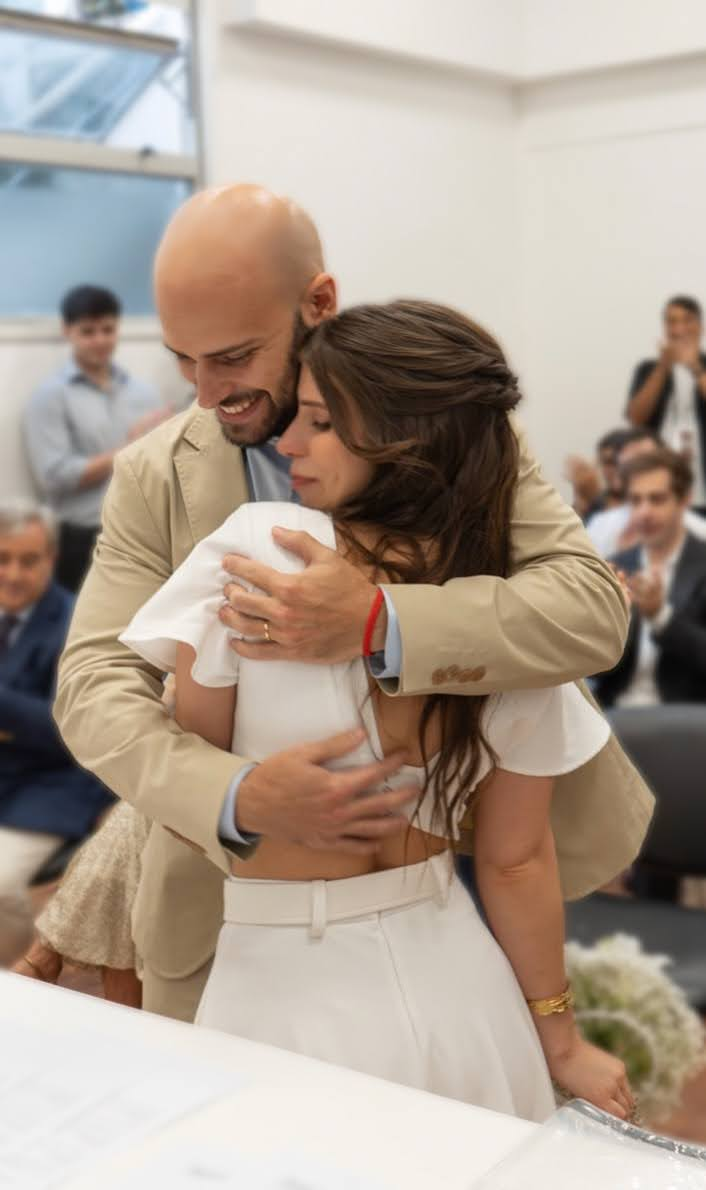
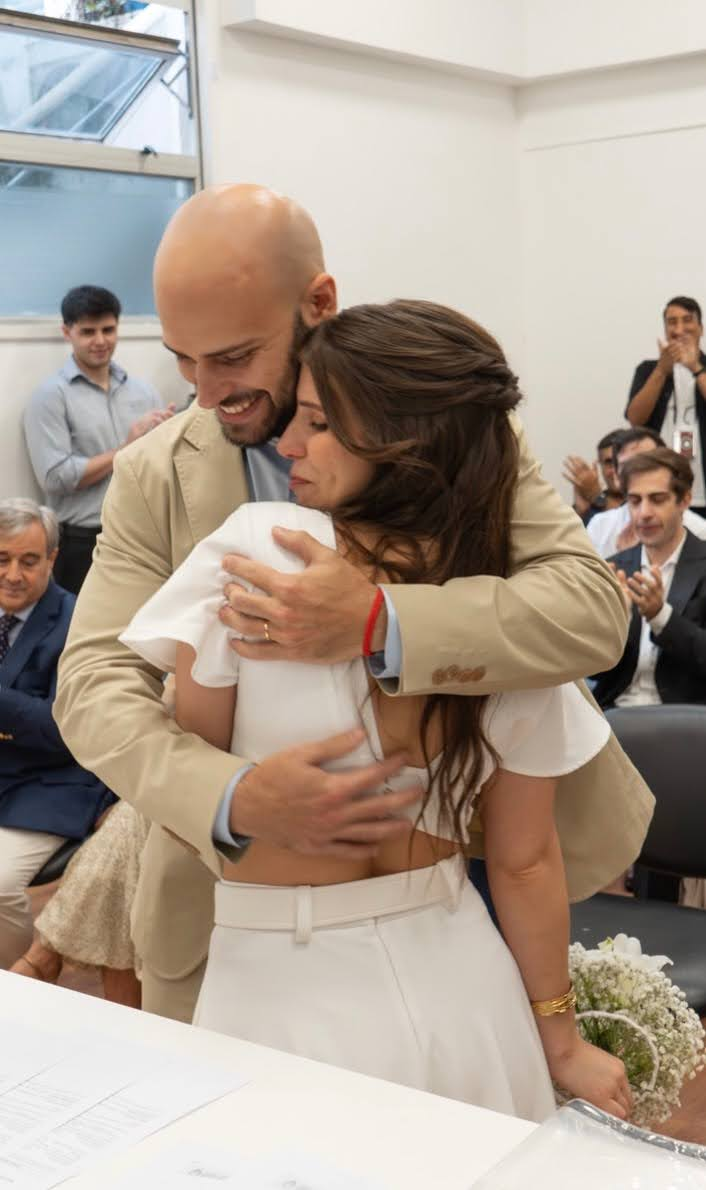
Agregar splash de bienvenida personalizado, playlist de Spotify, y ajustes de contenido/estilo
Renombrado a nj.html. Incluye pantalla de entrada con nombre de invitado
via URL, seccion de playlist colaborativa, foto principal sin recorte
circular, y varios ajustes de copy en Dudas/Regalos/RSVP en los tres idiomas.

diff --git a/nj.html b/nj.html
@@ -6,11 +6,11 @@
 <title>Natalia &amp; Joaquín — 27.11.2026</title>
 <link rel="preconnect" href="https://fonts.googleapis.com">
 <link rel="preconnect" href="https://fonts.gstatic.com" crossorigin>
-<link href="https://fonts.googleapis.com/css2?family=Fraunces:ital,opsz,wght@0,9..144,300;0,9..144,400;0,9..144,500;1,9..144,300;1,9..144,400&family=Hanken+Grotesk:wght@300;400;500&family=Parisienne&family=Playfair+Display:wght@400;500&display=swap" rel="stylesheet">
+<link href="https://fonts.googleapis.com/css2?family=Fraunces:ital,opsz,wght@0,9..144,300;0,9..144,400;0,9..144,500;1,9..144,300;1,9..144,400&family=Hanken+Grotesk:wght@300;400;500&family=Playfair+Display:ital,wght@0,400;0,500;1,400&display=swap" rel="stylesheet">
 <style>
 :root{
-  --marfil:#F7F3EA;
-  --marfil-2:#F1EBDD;
+  --marfil:#FFFFFF;
+  --marfil-2:#F3F3F0;
   --tinta:#26312A;          /* verde bosque muy oscuro, casi negro */
   --tinta-60:rgba(38,49,42,.6);
   --tinta-40:rgba(38,49,42,.42);
@@ -27,6 +27,38 @@ body{
 }
 ::selection{background:var(--tinta);color:var(--marfil)}
 img{display:block;width:100%;height:100%;object-fit:cover}
+body.locked{overflow:hidden;height:100vh}
+
+/* ---------- SPLASH ---------- */
+.splash{
+  position:fixed;inset:0;z-index:200;
+  background:var(--marfil);
+  display:flex;align-items:center;justify-content:center;
+  text-align:center;padding:2rem;
+  transition:opacity .6s ease,visibility .6s ease;
+}
+.splash.hide{opacity:0;visibility:hidden;pointer-events:none}
+.splash-inner{max-width:420px}
+.splash-eyebrow{
+  font-size:.68rem;letter-spacing:.34em;text-transform:uppercase;
+  color:var(--tinta-60);margin-bottom:1.8rem;
+}
+.splash-nombre{
+  font-family:'Playfair Display',serif;font-weight:400;
+  font-size:clamp(2rem,9vw,3.2rem);line-height:1.15;margin-bottom:1.1rem;
+  word-break:break-word;
+}
+.splash-msg{font-size:1rem;color:var(--tinta-60);margin-bottom:2.4rem}
+.splash-btn{
+  display:inline-block;background:var(--tinta);color:var(--marfil);
+  border:1px solid var(--tinta);cursor:pointer;
+  font-family:'Hanken Grotesk',sans-serif;font-weight:400;
+  font-size:.72rem;letter-spacing:.24em;text-transform:uppercase;
+  padding:1.05rem 2.6rem;border-radius:0;
+  transition:background .3s,color .3s;
+}
+.splash-btn:hover{background:transparent;color:var(--tinta)}
+.splash-btn:focus-visible{outline:1px solid var(--tinta);outline-offset:4px}
 
 /* ---------- NAV ---------- */
 nav{
@@ -114,11 +146,13 @@ header{
   font-family:'Playfair Display',serif;font-weight:400;
   font-size:clamp(2.9rem,11.5vw,6rem);
   line-height:1.06;margin-top:1.4rem;letter-spacing:.01em;
+  width:100%;text-align:center;
   opacity:0;animation:fade 1.4s ease .5s forwards;
 }
 .hero-names em{
-  font-family:'Parisienne',cursive;font-style:normal;font-size:.85em;display:block;
-  color:var(--borgona);margin:.1em 0;
+  font-family:'Playfair Display',serif;font-style:italic;font-size:.6em;display:block;
+  width:100%;text-align:center;line-height:1;
+  color:var(--tinta);margin:.45em 0 .05em;
 }
 .hero-lugar{
   margin-top:1.7rem;font-size:clamp(.92rem,4vw,1.05rem);font-weight:500;letter-spacing:.1em;text-transform:uppercase;
@@ -134,7 +168,7 @@ header{
 .hero-foto img{object-position:50% 40%}
 .hero-foto{
   margin-top:2.8rem;width:min(78vw,340px);aspect-ratio:3/4;
-  border-radius:999px 999px 0 0;overflow:hidden;
+  border-radius:0;overflow:hidden;
   opacity:0;animation:fade 1.6s ease 1.2s forwards;
 }
 @keyframes fade{from{opacity:0;transform:translateY(14px)}to{opacity:1;transform:translateY(0)}}
@@ -229,6 +263,12 @@ h2 em{font-style:italic;color:var(--borgona)}
   text-align:center;margin-top:1.4rem;
   font-family:'Fraunces',serif;font-style:italic;color:var(--borgona);font-size:1rem;
 }
+
+/* ---------- PLAYLIST ---------- */
+.playlist-embed{
+  max-width:460px;margin:2.4rem auto 0;border-radius:8px;overflow:hidden;
+}
+.playlist-embed iframe{display:block;border:none}
 
 /* ---------- FOTO ANCHA ---------- */
 .foto-ancha{
@@ -354,13 +394,23 @@ footer{
 }
 </style>
 </head>
-<body>
+<body class="locked">
+
+<div class="splash" id="splash">
+  <div class="splash-inner">
+    <p class="splash-eyebrow">Natalia &amp; Joaquín</p>
+    <h1 class="splash-nombre" id="splashNombre">¡Hola!</h1>
+    <p class="splash-msg" data-i18n="splash.msg">Nos casamos y queremos que estés ahí.</p>
+    <button class="splash-btn" id="splashBtn" type="button" data-i18n="splash.btn">Ver invitación</button>
+  </div>
+</div>
 
 <nav id="nav">
   <a class="nav-mono" href="#top">N—J</a>
   <div class="nav-links">
     <a href="#eldia" data-i18n="nav.eldia">El día</a>
     <a href="#dresscode" data-i18n="nav.vestimenta">Vestimenta</a>
+    <a href="#playlist" data-i18n="nav.playlist">Música</a>
     <a href="#regalos" data-i18n="nav.regalos">Regalos</a>
     <a href="#rsvp" data-i18n="nav.confirmar">Confirmar</a>
     <a href="#faq" data-i18n="nav.dudas">Dudas</a>
@@ -446,6 +496,23 @@ footer{
 
   <hr class="hr">
 
+  <!-- PLAYLIST -->
+  <section id="playlist">
+    <div class="reveal">
+      <p class="eyebrow" data-i18n="playlist.eyebrow">Música</p>
+      <h2 data-i18n="playlist.h2">Sumá tu <em>canción</em></h2>
+      <p class="lede" data-i18n="playlist.lede">Armamos esta playlist para bailar toda la noche: agregá los temas que no pueden faltar. ¿No tenés Spotify? Escribilo en el formulario de confirmación, un poco más abajo.</p>
+    </div>
+    <div class="playlist-embed reveal">
+      <iframe src="https://open.spotify.com/embed/playlist/21qQINeFrJPCweo31xKQwX?utm_source=generator" width="100%" height="380" frameborder="0" allowfullscreen="" allow="autoplay; clipboard-write; encrypted-media; fullscreen; picture-in-picture" loading="lazy"></iframe>
+    </div>
+    <div class="dia-acciones reveal">
+      <a class="link" href="https://open.spotify.com/playlist/21qQINeFrJPCweo31xKQwX" target="_blank" rel="noopener" data-i18n="playlist.abrir">Abrir en Spotify</a>
+    </div>
+  </section>
+
+  <hr class="hr">
+
   <!-- REGALOS -->
   <section id="regalos">
     <div class="reveal">
@@ -497,7 +564,6 @@ footer{
     <div class="reveal">
       <p class="eyebrow" data-i18n="rsvp.eyebrow">Confirmación</p>
       <h2 data-i18n="rsvp.h2">Confirmar <em>asistencia</em></h2>
-      <p class="lede" data-i18n="rsvp.lede">Tarda menos de un minuto.</p>
     </div>
     <div class="form reveal">
       <div class="campo">
@@ -542,11 +608,11 @@ footer{
     <div class="faq-list reveal">
       <div class="faq-item">
         <button class="faq-q" aria-expanded="false"><span data-i18n="faq.q1">¿A qué distancia queda Espacio PK?</span><span class="signo">+</span></button>
-        <div class="faq-a"><p data-i18n="faq.a1">Espacio PK queda a unos 80 km de la ciudad: calculen una hora y cuarto de viaje. Como es viernes, suele haber más tráfico a esa hora, así que mejor salir con tiempo de sobra. La ceremonia empieza 19.00 en punto; lo ideal es llegar 18.30.</p></div>
+        <div class="faq-a"><p data-i18n="faq.a1">Espacio PK queda a unos 80 km de CABA (aproximadamente una hora y media de viaje). Como la ceremonia comienza puntual a las 19:00 hs, lo ideal es llegar a las 18:30 hs. Al ser viernes por la tarde suele haber bastante tránsito, por lo que les recomendamos salir con buen margen de tiempo para viajar tranquilos. ¡Los esperamos!</p></div>
       </div>
       <div class="faq-item">
         <button class="faq-q" aria-expanded="false"><span data-i18n="faq.q2">¿Hay estacionamiento?</span><span class="signo">+</span></button>
-        <div class="faq-a"><p data-i18n="faq.a2">Sí, el predio tiene estacionamiento propio. Si pueden compartir auto, mejor para todos.</p></div>
+        <div class="faq-a"><p data-i18n="faq.a2">Sí, el predio tiene estacionamiento propio.</p></div>
       </div>
       <div class="faq-item">
         <button class="faq-q" aria-expanded="false"><span data-i18n="faq.q3">¿Dónde me puedo alojar cerca?</span><span class="signo">+</span></button>
@@ -570,7 +636,7 @@ footer{
       </div>
       <div class="faq-item">
         <button class="faq-q" aria-expanded="false"><span data-i18n="faq.q5">¿Es al aire libre? ¿Y si llueve?</span><span class="signo">+</span></button>
-        <div class="faq-a"><p data-i18n="faq.a5">La ceremonia es al aire libre y la fiesta en el Salón Granero, que es cubierto. Si llueve, todo pasa adentro sin cambios de horario. A fines de noviembre suele hacer calor de día y refrescar apenas de noche.</p></div>
+        <div class="faq-a"><p data-i18n="faq.a5">La ceremonia es al aire libre y la fiesta en el Salón Granero, que es cubierto. Si llueve, todo pasa adentro sin cambios de horario.</p></div>
       </div>
       <div class="faq-item">
         <button class="faq-q" aria-expanded="false"><span data-i18n="faq.q6">¿Hasta cuándo puedo confirmar?</span><span class="signo">+</span></button>
@@ -615,13 +681,16 @@ var FOTOS = {
 /* ---- traducciones ---- */
 var TRANSLATIONS = {
   es: {
-    "nav.eldia":"El día","nav.vestimenta":"Vestimenta","nav.regalos":"Regalos","nav.confirmar":"Confirmar","nav.dudas":"Dudas",
+    "nav.eldia":"El día","nav.vestimenta":"Vestimenta","nav.playlist":"Música","nav.regalos":"Regalos","nav.confirmar":"Confirmar","nav.dudas":"Dudas",
     "hero.fecha":"27 de noviembre de 2026","hero.hora":"Ceremonia 19:00 h",
     "eldia.eyebrow":"El día","momento.ceremonia":"Ceremonia","momento.recepcion":"Recepción y fiesta","momento.cierre":"Cierre",
     "accion.comollegar":"Cómo llegar","accion.agendar":"Agendar fecha",
     "dress.eyebrow":"Vestimenta","dress.h2":"<em>Elegante</em>",
     "dress.lede":"Elegante pero cómodo, para que puedas disfrutar de este gran día.",
     "dress.evitar":"Solo les pedimos evitar el blanco.",
+    "playlist.eyebrow":"Música","playlist.h2":"Sumá tu <em>canción</em>",
+    "playlist.lede":"Armamos esta playlist para bailar toda la noche: agregá los temas que no pueden faltar. ¿No tenés Spotify? Escribilo en el formulario de confirmación, un poco más abajo.",
+    "playlist.abrir":"Abrir en Spotify",
     "regalos.eyebrow":"Regalos","regalos.h2":"<em>Regalos</em>",
     "regalos.lede":"Su presencia es lo más importante para nosotros. Si quieren colaborar para nuestra luna de miel, estos son nuestros datos.",
     "regalos.pesos":"Pesos argentinos","regalos.usd":"USD dólares",
@@ -629,39 +698,44 @@ var TRANSLATIONS = {
     "label.dieta":"Alergias o alimentación especial","label.cancion":"Canción que no puede faltar","label.msj":"Algo más que quieras decirnos",
     "btn.copiar":"Copiar","btn.enviar":"Enviar confirmación",
     "radio.voy":"Voy a estar","radio.no":"No puedo ir",
-    "rsvp.eyebrow":"Confirmación","rsvp.h2":"Confirmar <em>asistencia</em>","rsvp.lede":"Tarda menos de un minuto.",
+    "rsvp.eyebrow":"Confirmación","rsvp.h2":"Confirmar <em>asistencia</em>",
     "rsvp.deadline":"Antes del 1 de octubre, por favor.",
     "faq.eyebrow":"Preguntas frecuentes","faq.h2":"<em>Dudas</em>",
     "faq.q1":"¿A qué distancia queda Espacio PK?",
-    "faq.a1":"Espacio PK queda a unos 80 km de la ciudad: calculen una hora y cuarto de viaje. Como es viernes, suele haber más tráfico a esa hora, así que mejor salir con tiempo de sobra. La ceremonia empieza 19.00 en punto; lo ideal es llegar 18.30.",
+    "faq.a1":"Espacio PK queda a unos 80 km de CABA (aproximadamente una hora y media de viaje). Como la ceremonia comienza puntual a las 19:00 hs, lo ideal es llegar a las 18:30 hs. Al ser viernes por la tarde suele haber bastante tránsito, por lo que les recomendamos salir con buen margen de tiempo para viajar tranquilos. ¡Los esperamos!",
     "faq.q2":"¿Hay estacionamiento?",
-    "faq.a2":"Sí, el predio tiene estacionamiento propio. Si pueden compartir auto, mejor para todos.",
+    "faq.a2":"Sí, el predio tiene estacionamiento propio.",
     "faq.q3":"¿Dónde me puedo alojar cerca?",
     "faq.a3":"Algunas opciones en Capilla del Señor y alrededores:<br>Cabañas Lily Bee — instagram.com/lilybee.ecohome · 11 5048 4264<br>La Martinetta — lamartinetaposada.com · 2323 49 2063<br>Cabañas Campo Alto — 11 6131 7475<br>Tía Úrsula — Malvón 542, Parada Robles · 11 2685 1342<br>Carmine Hotel Apart — Hipólito Irigoyen 594, Capilla del Señor · (02323) 491833<br>Quinta Loma Alta — Mateo S. Casco 1380 · 011 4195 7992<br>Camberland — hotelcamberland.com · 0230 4499 111<br>Hilton Pilar — hiltonpilar.ar · 0230 453 3800<br>Sofitel Cardales — sofitellareserva.com · 3489 43 5555",
     "faq.q4":"¿Hay combis o traslados?",
     "faq.a4":"Sí, estas empresas hacen el viaje hasta Espacio PK:<br>Lichabus — 11 530 78673<br>Boomerang — 11 15 6986 60059 · turismoboomerang.com.ar<br>Belardinelli Viajes — 11 4401 1600",
     "faq.q5":"¿Es al aire libre? ¿Y si llueve?",
-    "faq.a5":"La ceremonia es al aire libre y la fiesta en el Salón Granero, que es cubierto. Si llueve, todo pasa adentro sin cambios de horario. A fines de noviembre suele hacer calor de día y refrescar apenas de noche.",
+    "faq.a5":"La ceremonia es al aire libre y la fiesta en el Salón Granero, que es cubierto. Si llueve, todo pasa adentro sin cambios de horario.",
     "faq.q6":"¿Hasta cuándo puedo confirmar?",
     "faq.a6":"Hasta el 1 de octubre de 2026. Nos ayuda muchísimo para cerrar los números con el catering.",
     "msgs.completaNombre":"Completá tu nombre, por favor.",
     "msgs.completaForm":"Completá la confirmación en el formulario que se abrió.",
-    "msgs.enviando":"Enviando…","msgs.gracias":"Gracias, {name}. Ya tenemos tu confirmación.",
+    "msgs.enviando":"Enviando…","msgs.gracias":"¡Gracias por tu respuesta, {name}!",
     "msgs.error":"No se pudo enviar. Probá de nuevo en un rato.","msgs.copiado":"Copiado",
     "alts.hero":"Natalia y Joaquín caminando de la mano","alts.duo1":"Natalia y Joaquín abrazados en el civil",
     "alts.duo2":"Natalia y Joaquín besándose en el civil","alts.salon":"Espacio PK al atardecer","alts.ancha":"Interior del Salón Granero",
     "music.play":"Reproducir música","music.pause":"Pausar música",
     "calendar.text":"Casamiento Natalia & Joaquín",
-    "calendar.details":"Ceremonia 19.00 h y fiesta a continuación en Espacio PK (Salón Granero), Capilla del Señor."
+    "calendar.details":"Ceremonia 19.00 h y fiesta a continuación en Espacio PK (Salón Granero), Capilla del Señor.",
+    "splash.saludo":"¡Hola, {name}!","splash.saludoGenerico":"¡Hola!",
+    "splash.msg":"Nos casamos y queremos que estés ahí.","splash.btn":"Ver invitación"
   },
   en: {
-    "nav.eldia":"The Day","nav.vestimenta":"Dress code","nav.regalos":"Gifts","nav.confirmar":"RSVP","nav.dudas":"FAQ",
+    "nav.eldia":"The Day","nav.vestimenta":"Dress code","nav.playlist":"Music","nav.regalos":"Gifts","nav.confirmar":"RSVP","nav.dudas":"FAQ",
     "hero.fecha":"November 27, 2026","hero.hora":"Ceremony 7:00 PM",
     "eldia.eyebrow":"The Day","momento.ceremonia":"Ceremony","momento.recepcion":"Reception & party","momento.cierre":"End",
     "accion.comollegar":"Get directions","accion.agendar":"Add to calendar",
     "dress.eyebrow":"Dress code","dress.h2":"<em>Elegant</em>",
     "dress.lede":"Elegant but comfortable — the party is standing, on the grass.",
     "dress.evitar":"Just one request: please avoid wearing white.",
+    "playlist.eyebrow":"Music","playlist.h2":"Add your <em>song</em>",
+    "playlist.lede":"We put together this playlist to dance all night: add the songs that can't be missing. No Spotify? Write it in the RSVP form below.",
+    "playlist.abrir":"Open in Spotify",
     "regalos.eyebrow":"Gifts","regalos.h2":"<em>Gifts</em>",
     "regalos.lede":"Your presence means the most to us. If you'd like to contribute to our honeymoon, here are our details.",
     "regalos.pesos":"Argentine pesos","regalos.usd":"USD dollars",
@@ -669,39 +743,44 @@ var TRANSLATIONS = {
     "label.dieta":"Allergies or dietary needs","label.cancion":"A song we must play","label.msj":"Anything else you'd like to tell us",
     "btn.copiar":"Copy","btn.enviar":"Send RSVP",
     "radio.voy":"I'll be there","radio.no":"I can't make it",
-    "rsvp.eyebrow":"RSVP","rsvp.h2":"Confirm <em>attendance</em>","rsvp.lede":"It takes less than a minute.",
+    "rsvp.eyebrow":"RSVP","rsvp.h2":"Confirm <em>attendance</em>",
     "rsvp.deadline":"Please confirm before October 1st.",
     "faq.eyebrow":"Frequently asked questions","faq.h2":"<em>FAQ</em>",
     "faq.q1":"How far is Espacio PK?",
-    "faq.a1":"Espacio PK is about 80 km from the city: plan for roughly an hour and fifteen minutes of travel. Since it's a Friday, there's usually more traffic at that time, so it's best to leave with extra time. The ceremony starts sharp at 7:00 PM; ideally arrive by 6:30 PM.",
+    "faq.a1":"Espacio PK is about 80 km from CABA (roughly an hour and a half by car). Since the ceremony starts sharp at 7:00 PM, it's best to arrive by 6:30 PM. As it's a Friday afternoon, traffic tends to be heavy, so we recommend leaving with plenty of time to travel comfortably. We can't wait to see you!",
     "faq.q2":"Is there parking?",
-    "faq.a2":"Yes, the venue has its own parking lot. Carpooling is welcome if you can.",
+    "faq.a2":"Yes, the venue has its own parking lot.",
     "faq.q3":"Where can I stay nearby?",
     "faq.a3":"Some options in and around Capilla del Señor:<br>Cabañas Lily Bee — instagram.com/lilybee.ecohome · 11 5048 4264<br>La Martinetta — lamartinetaposada.com · 2323 49 2063<br>Cabañas Campo Alto — 11 6131 7475<br>Tía Úrsula — Malvón 542, Parada Robles · 11 2685 1342<br>Carmine Hotel Apart — Hipólito Irigoyen 594, Capilla del Señor · (02323) 491833<br>Quinta Loma Alta — Mateo S. Casco 1380 · 011 4195 7992<br>Camberland — hotelcamberland.com · 0230 4499 111<br>Hilton Pilar — hiltonpilar.ar · 0230 453 3800<br>Sofitel Cardales — sofitellareserva.com · 3489 43 5555",
     "faq.q4":"Are there shuttles or transfers?",
     "faq.a4":"Yes, these companies run trips to Espacio PK:<br>Lichabus — 11 530 78673<br>Boomerang — 11 15 6986 60059 · turismoboomerang.com.ar<br>Belardinelli Viajes — 11 4401 1600",
     "faq.q5":"Is it outdoors? What if it rains?",
-    "faq.a5":"The ceremony is outdoors and the party is in the Salón Granero, which is covered. If it rains, everything moves indoors with no change to the schedule. Late November tends to be warm during the day and just a bit cooler at night.",
+    "faq.a5":"The ceremony is outdoors and the party is in the Salón Granero, which is covered. If it rains, everything moves indoors with no change to the schedule.",
     "faq.q6":"By when can I RSVP?",
     "faq.a6":"By October 1st, 2026. It helps us a lot to close the numbers with catering.",
     "msgs.completaNombre":"Please fill in your name.",
     "msgs.completaForm":"Please complete your RSVP in the form that just opened.",
-    "msgs.enviando":"Sending…","msgs.gracias":"Thanks, {name}. We've got your RSVP.",
+    "msgs.enviando":"Sending…","msgs.gracias":"Thanks for your response, {name}!",
     "msgs.error":"Something went wrong. Please try again in a bit.","msgs.copiado":"Copied",
     "alts.hero":"Natalia and Joaquín walking hand in hand","alts.duo1":"Natalia and Joaquín hugging at the civil ceremony",
     "alts.duo2":"Natalia and Joaquín kissing at the civil ceremony","alts.salon":"Espacio PK at sunset","alts.ancha":"Inside the Salón Granero",
     "music.play":"Play music","music.pause":"Pause music",
     "calendar.text":"Natalia & Joaquín's Wedding",
-    "calendar.details":"Ceremony at 7:00 PM, followed by the party at Espacio PK (Salón Granero), Capilla del Señor."
+    "calendar.details":"Ceremony at 7:00 PM, followed by the party at Espacio PK (Salón Granero), Capilla del Señor.",
+    "splash.saludo":"Hello, {name}!","splash.saludoGenerico":"Hello!",
+    "splash.msg":"We're getting married and we want you there.","splash.btn":"View invitation"
   },
   fr: {
-    "nav.eldia":"Le Jour J","nav.vestimenta":"Tenue","nav.regalos":"Cadeaux","nav.confirmar":"Confirmer","nav.dudas":"Questions",
+    "nav.eldia":"Le Jour J","nav.vestimenta":"Tenue","nav.playlist":"Musique","nav.regalos":"Cadeaux","nav.confirmar":"Confirmer","nav.dudas":"Questions",
     "hero.fecha":"27 novembre 2026","hero.hora":"Cérémonie 19h00",
     "eldia.eyebrow":"Le Jour J","momento.ceremonia":"Cérémonie","momento.recepcion":"Réception et fête","momento.cierre":"Fin",
     "accion.comollegar":"Itinéraire","accion.agendar":"Ajouter au calendrier",
     "dress.eyebrow":"Tenue","dress.h2":"<em>Élégant</em>",
     "dress.lede":"Élégant mais confortable : la fête se passe debout, sur l'herbe.",
     "dress.evitar":"On vous demande simplement d'éviter le blanc.",
+    "playlist.eyebrow":"Musique","playlist.h2":"Ajoutez votre <em>chanson</em>",
+    "playlist.lede":"On a préparé cette playlist pour danser toute la nuit : ajoutez les chansons incontournables. Pas de Spotify ? Écrivez-la dans le formulaire de confirmation, un peu plus bas.",
+    "playlist.abrir":"Ouvrir dans Spotify",
     "regalos.eyebrow":"Cadeaux","regalos.h2":"<em>Cadeaux</em>",
     "regalos.lede":"Votre présence est ce qui compte le plus pour nous. Si vous souhaitez contribuer à notre lune de miel, voici nos coordonnées.",
     "regalos.pesos":"Pesos argentins","regalos.usd":"Dollars US",
@@ -709,30 +788,32 @@ var TRANSLATIONS = {
     "label.dieta":"Allergies ou régime particulier","label.cancion":"Une chanson incontournable","label.msj":"Autre chose à nous dire",
     "btn.copiar":"Copier","btn.enviar":"Envoyer la confirmation",
     "radio.voy":"Je serai présent(e)","radio.no":"Je ne pourrai pas venir",
-    "rsvp.eyebrow":"Confirmation","rsvp.h2":"Confirmer <em>votre présence</em>","rsvp.lede":"Ça prend moins d'une minute.",
+    "rsvp.eyebrow":"Confirmation","rsvp.h2":"Confirmer <em>votre présence</em>",
     "rsvp.deadline":"Merci de confirmer avant le 1er octobre.",
     "faq.eyebrow":"Questions fréquentes","faq.h2":"<em>Questions</em>",
     "faq.q1":"À quelle distance se trouve Espacio PK ?",
-    "faq.a1":"Espacio PK se trouve à environ 80 km de la ville : comptez une heure et quart de trajet. Comme c'est un vendredi, il y a souvent plus de circulation à cette heure, mieux vaut donc partir avec de la marge. La cérémonie commence à 19h00 précises ; l'idéal est d'arriver à 18h30.",
+    "faq.a1":"Espacio PK se trouve à environ 80 km de CABA (environ une heure et demie de route). Comme la cérémonie commence à 19h00 précises, l'idéal est d'arriver à 18h30. Comme c'est un vendredi après-midi, il y a souvent beaucoup de circulation, nous vous recommandons donc de partir avec de la marge pour voyager tranquillement. On vous attend avec impatience !",
     "faq.q2":"Y a-t-il un parking ?",
-    "faq.a2":"Oui, le domaine dispose de son propre parking. Le covoiturage est bienvenu si possible.",
+    "faq.a2":"Oui, le domaine dispose de son propre parking.",
     "faq.q3":"Où puis-je loger à proximité ?",
     "faq.a3":"Quelques options à Capilla del Señor et aux alentours :<br>Cabañas Lily Bee — instagram.com/lilybee.ecohome · 11 5048 4264<br>La Martinetta — lamartinetaposada.com · 2323 49 2063<br>Cabañas Campo Alto — 11 6131 7475<br>Tía Úrsula — Malvón 542, Parada Robles · 11 2685 1342<br>Carmine Hotel Apart — Hipólito Irigoyen 594, Capilla del Señor · (02323) 491833<br>Quinta Loma Alta — Mateo S. Casco 1380 · 011 4195 7992<br>Camberland — hotelcamberland.com · 0230 4499 111<br>Hilton Pilar — hiltonpilar.ar · 0230 453 3800<br>Sofitel Cardales — sofitellareserva.com · 3489 43 5555",
     "faq.q4":"Y a-t-il des navettes ou des transferts ?",
     "faq.a4":"Oui, ces entreprises assurent le trajet jusqu'à Espacio PK:<br>Lichabus — 11 530 78673<br>Boomerang — 11 15 6986 60059 · turismoboomerang.com.ar<br>Belardinelli Viajes — 11 4401 1600",
     "faq.q5":"Est-ce en extérieur ? Et s'il pleut ?",
-    "faq.a5":"La cérémonie a lieu en extérieur et la fête dans le Salón Granero, qui est couvert. S'il pleut, tout se passe à l'intérieur sans changement d'horaire. Fin novembre, il fait généralement chaud la journée et un peu plus frais le soir.",
+    "faq.a5":"La cérémonie a lieu en extérieur et la fête dans le Salón Granero, qui est couvert. S'il pleut, tout se passe à l'intérieur sans changement d'horaire.",
     "faq.q6":"Jusqu'à quand puis-je confirmer ?",
     "faq.a6":"Jusqu'au 1er octobre 2026. Cela nous aide beaucoup à finaliser les chiffres avec le traiteur.",
     "msgs.completaNombre":"Merci de renseigner votre nom.",
     "msgs.completaForm":"Merci de compléter la confirmation dans le formulaire qui vient de s'ouvrir.",
-    "msgs.enviando":"Envoi…","msgs.gracias":"Merci, {name}. Nous avons bien reçu votre confirmation.",
+    "msgs.enviando":"Envoi…","msgs.gracias":"Merci pour votre réponse, {name} !",
     "msgs.error":"L'envoi a échoué. Merci de réessayer dans un instant.","msgs.copiado":"Copié",
     "alts.hero":"Natalia et Joaquín se promenant main dans la main","alts.duo1":"Natalia et Joaquín s'enlaçant lors du mariage civil",
     "alts.duo2":"Natalia et Joaquín s'embrassant lors du mariage civil","alts.salon":"Espacio PK au coucher du soleil","alts.ancha":"Intérieur du Salón Granero",
     "music.play":"Jouer la musique","music.pause":"Mettre en pause",
     "calendar.text":"Mariage de Natalia & Joaquín",
-    "calendar.details":"Cérémonie à 19h00, suivie de la fête à Espacio PK (Salón Granero), Capilla del Señor."
+    "calendar.details":"Cérémonie à 19h00, suivie de la fête à Espacio PK (Salón Granero), Capilla del Señor.",
+    "splash.saludo":"Bonjour, {name} !","splash.saludoGenerico":"Bonjour !",
+    "splash.msg":"On se marie et on veut que tu sois là.","splash.btn":"Voir l'invitation"
   }
 };
 function t(lang,key){
@@ -740,6 +821,17 @@ function t(lang,key){
   return d[key]!==undefined?d[key]:TRANSLATIONS.es[key];
 }
 var CURRENT_LANG = localStorage.getItem('idiomaBoda') || 'es';
+var GUEST_NAME = (new URLSearchParams(window.location.search).get('para')||'').trim().slice(0,40);
+function updateSplashGreeting(lang){
+  var el=document.getElementById('splashNombre');
+  if(!el)return;
+  if(GUEST_NAME){
+    var parts=t(lang,'splash.saludo').split('{name}');
+    el.textContent=parts[0]+GUEST_NAME+(parts[1]||'');
+  }else{
+    el.textContent=t(lang,'splash.saludoGenerico');
+  }
+}
 function buildCalendarUrl(lang){
   return "https://calendar.google.com/calendar/render?action=TEMPLATE"
     +"&text="+encodeURIComponent(t(lang,'calendar.text'))
@@ -768,10 +860,21 @@ function applyLang(lang){
     b.classList.toggle('active',b.getAttribute('data-lang')===lang);
   });
   localStorage.setItem('idiomaBoda',lang);
+  updateSplashGreeting(lang);
 }
 document.querySelectorAll('#langSwitch button').forEach(function(b){
   b.addEventListener('click',function(){applyLang(b.getAttribute('data-lang'));});
 });
+
+/* ---- splash de bienvenida ---- */
+(function(){
+  var splash=document.getElementById('splash');
+  var btn=document.getElementById('splashBtn');
+  btn.addEventListener('click',function(){
+    splash.classList.add('hide');
+    document.body.classList.remove('locked');
+  });
+})();
 
 /* ---- cargar fotos ---- */
 (function(){
